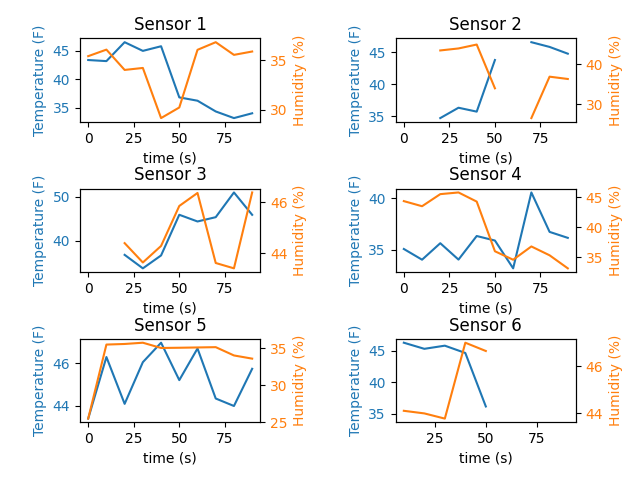
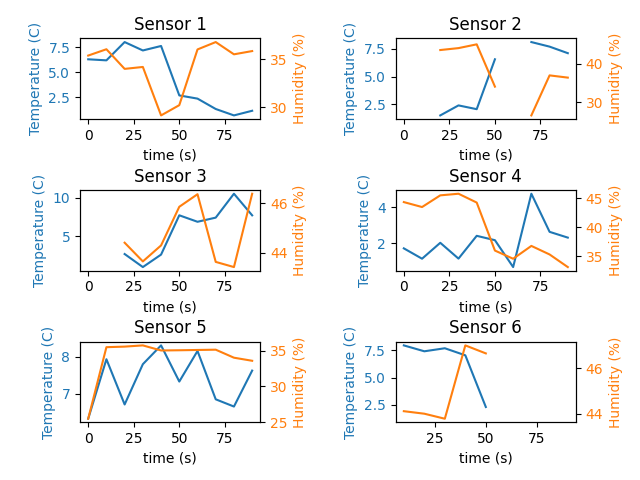
Celsius graph and update spacing

diff --git a/TornadoSocketConnection.js b/TornadoSocketConnection.js
@@ -74,7 +74,9 @@
   };
 
   handleGCommand = function(data){
-    $("#G_graph_img").attr('src', 'eid_graph.png')
+    // workaround to reload image every time from:
+    // https://stackoverflow.com/questions/2104949/how-to-reload-refresh-an-elementimage-in-jquery
+    $("#G_graph_img").attr('src', 'eid_graph.png?timestamp=' + new Date().getTime())
   };
 
 
@@ -192,6 +194,8 @@
       $(".t_req").click()
 
       $("#C_allData_Tornado").click()
+
+      $("#G_graph").click()
 
     });
 

diff --git a/graph.py b/graph.py
@@ -1,7 +1,7 @@
 import numpy as np
 import matplotlib.pyplot as plt
 
-def generate_graph(data):
+def generate_graph(data, units):
     temps = {}
     hums = {}
 
@@ -33,7 +33,7 @@ def generate_graph(data):
     timevals = np.arange(0, 10*numEntries, 10)
 
     fig, ax = plt.subplots(3, 2)
-    fig.subplots_adjust(hspace=0.8, wspace=0.75, top=0.92, bottom=0.12)
+    fig.subplots_adjust(hspace=0.88, wspace=0.75, top=0.92, bottom=0.12)
     # Plot all the sensor data!
     for sensor_id in data.keys():
         tempList = temps[sensor_id]
@@ -48,9 +48,6 @@ def generate_graph(data):
         hum_color = 'tab:orange'
         ax[row][col].set_title(title)
         ax[row][col].set_xlabel('time (s)')
-        units = '(F)'
-        # if not self.monitor.fahrenheit:
-        #     units = '(C)'
         ax[row][col].set_ylabel('Temperature ' + units, color=temp_color)
         ax[row][col].plot(timevals, tempList, color=temp_color)
         ax[row][col].tick_params(axis='y', labelcolor=temp_color)

diff --git a/Server_Python_API.py b/Server_Python_API.py
@@ -93,7 +93,11 @@ def ParseMessage(msg_obj):
 
 	elif(command == 'G'):
 		last_10 = monitor.get_last_10()
-		generate_graph(last_10)
+		if monitor.fahrenheit:
+			units = '(F)'
+		else:
+			units = '(C)'
+		generate_graph(last_10, units)
 
 	return output
 
